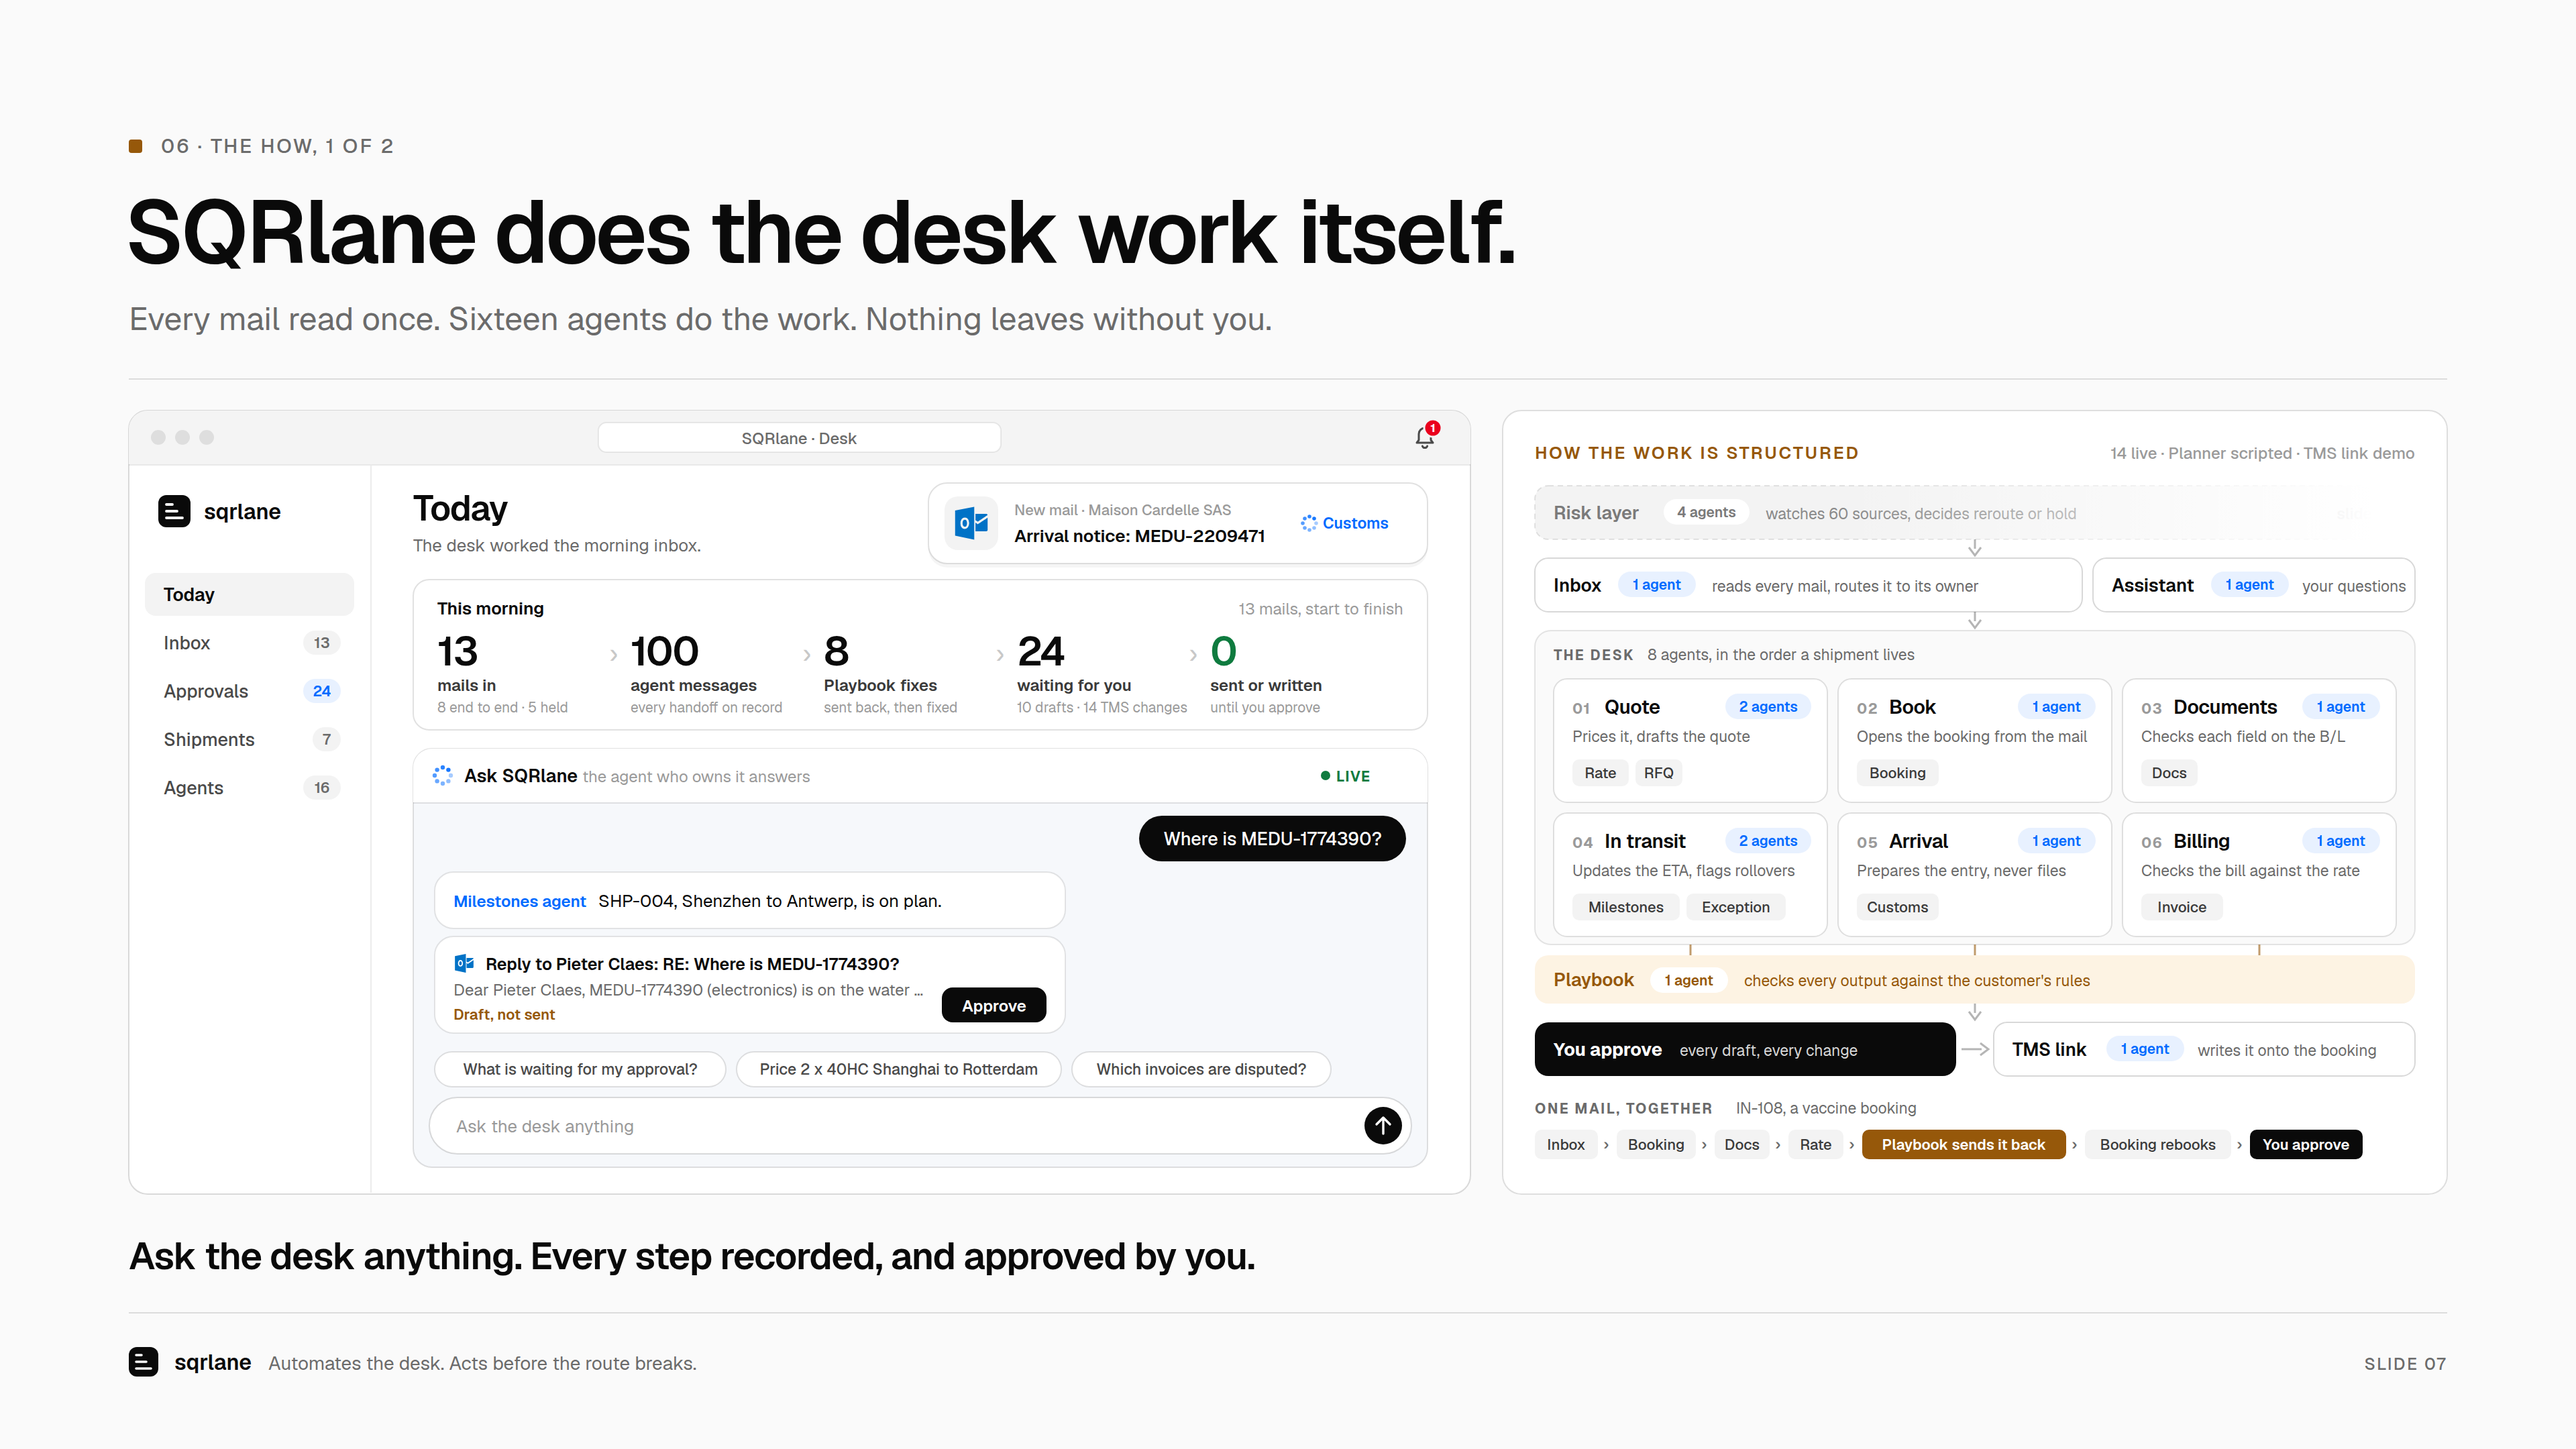
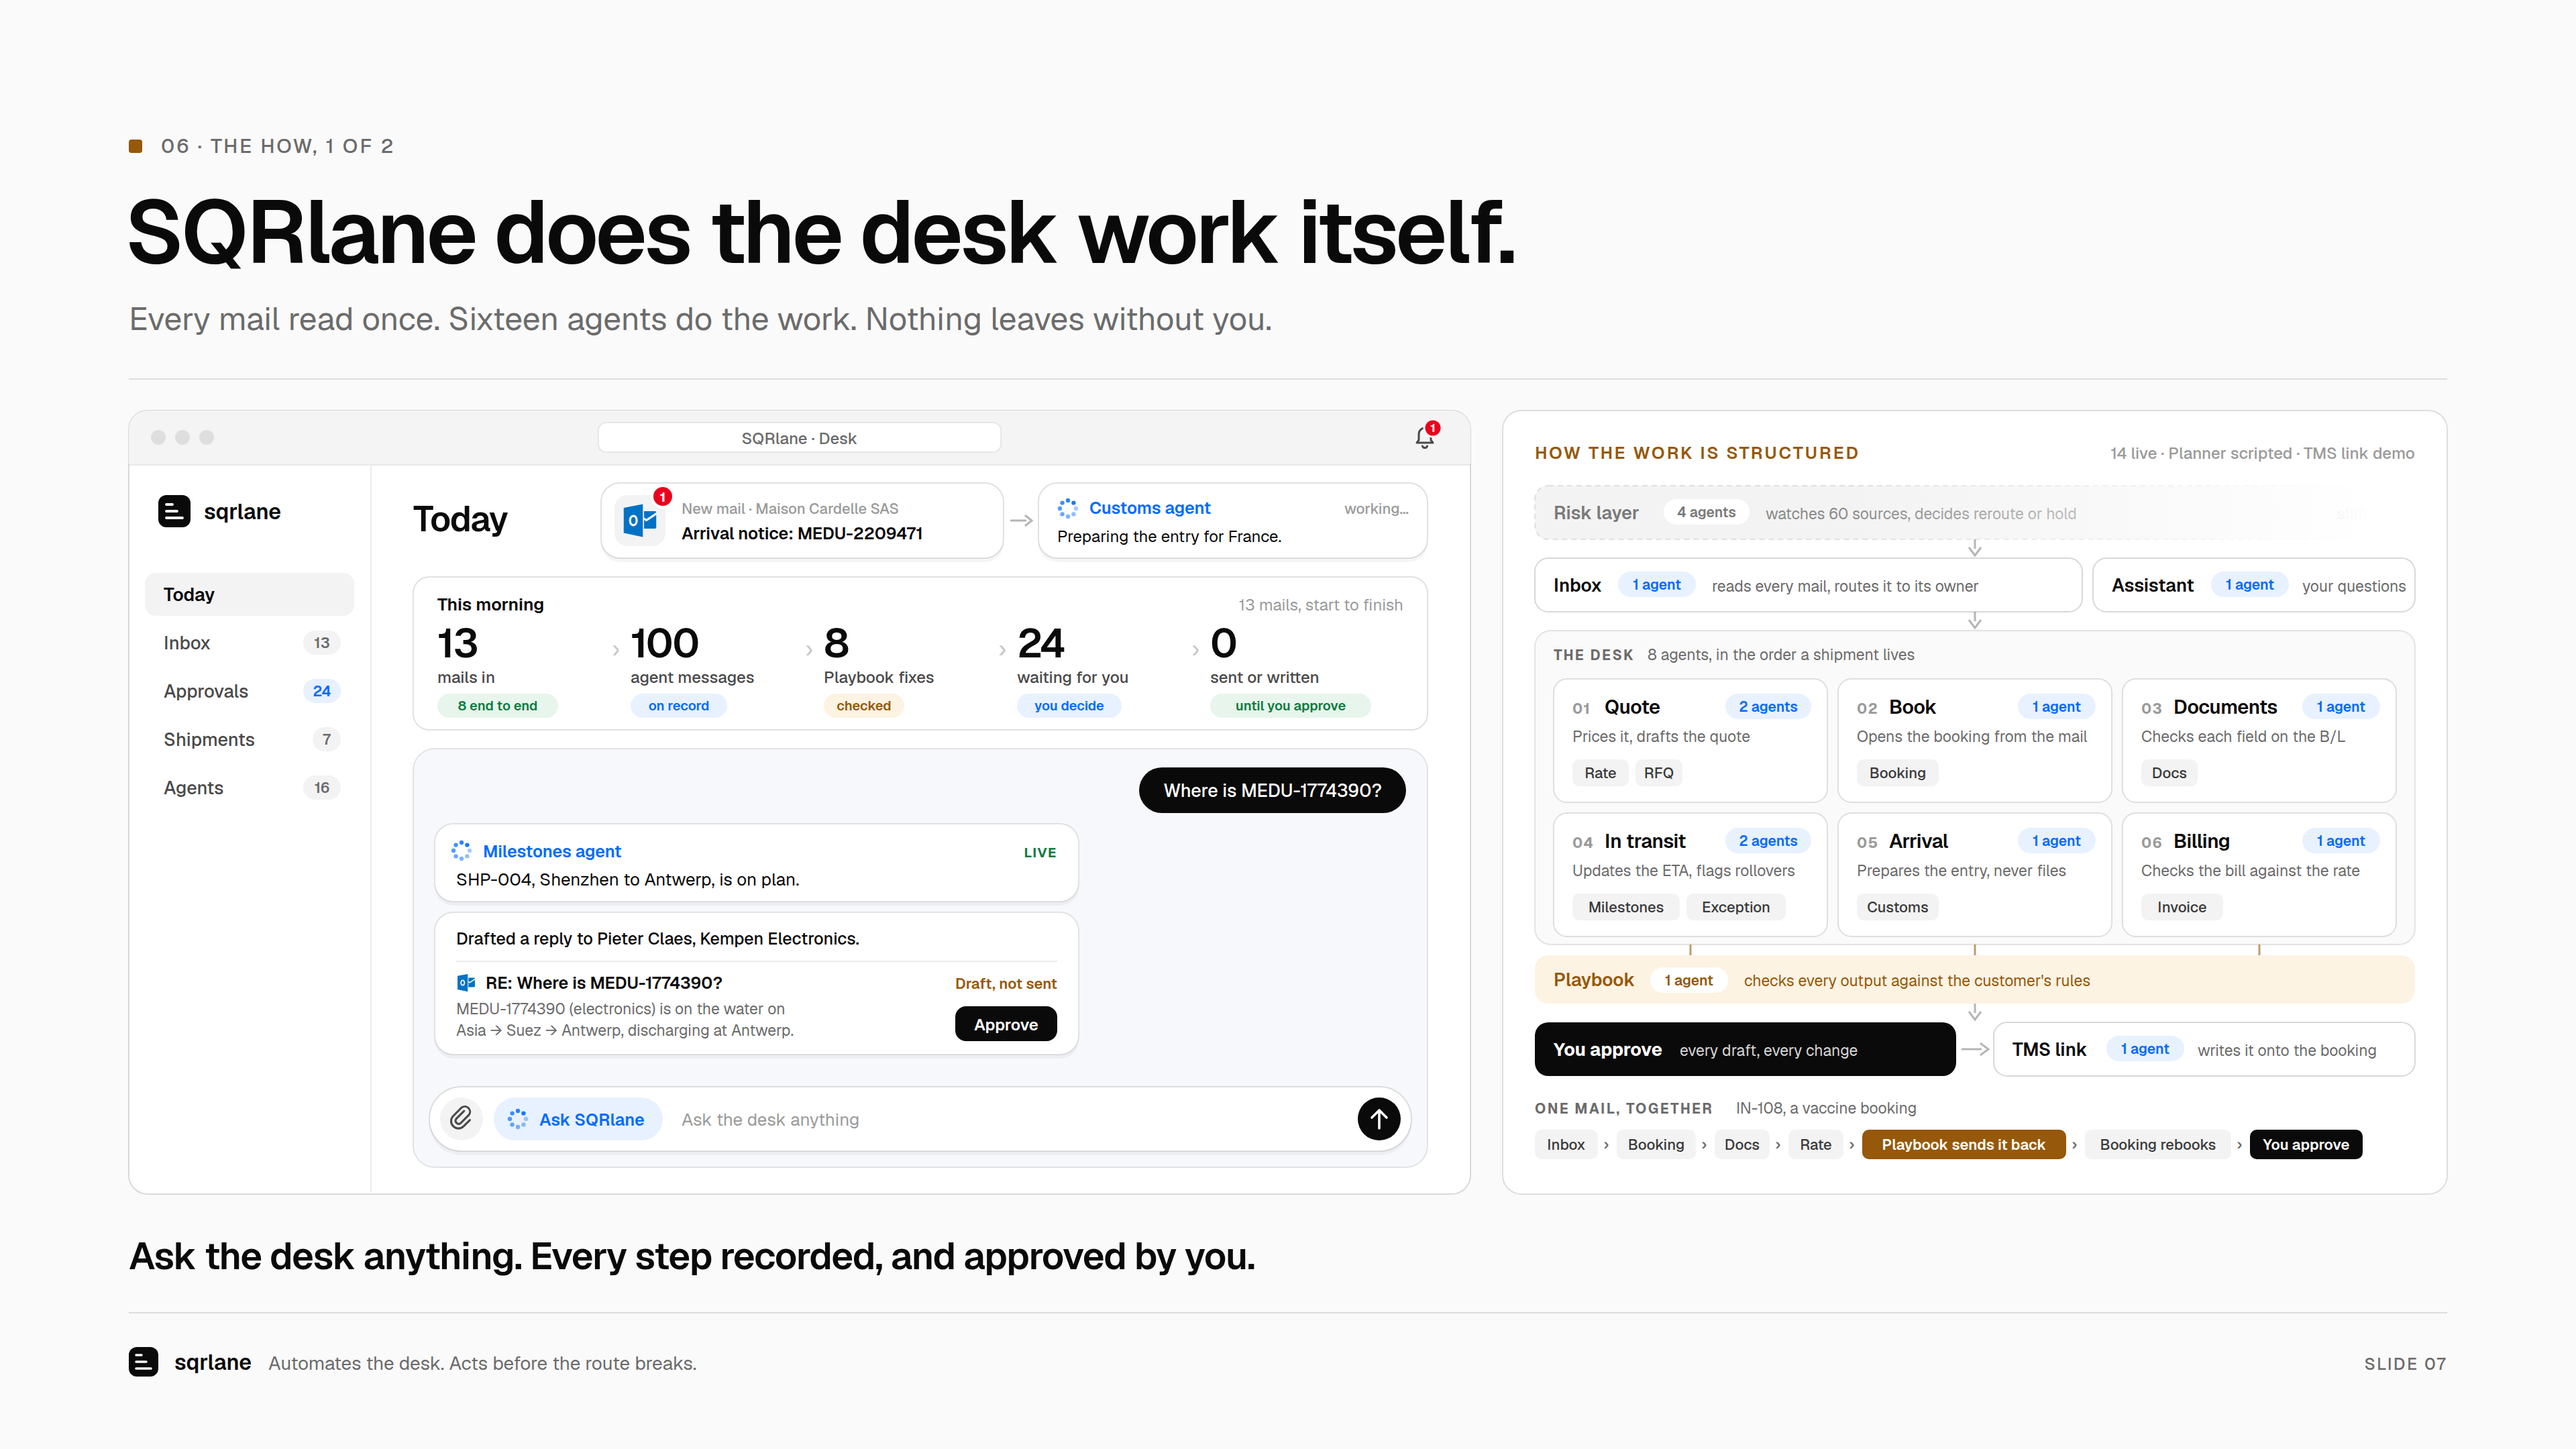
Deck v2 slide 07: tagged overview, chat laid out like the reference, and the Customs agent's working pop-up
Claude-Session: https://claude.ai/code/session_014BsH9ow2RbGmbV9G28PBg8

diff --git a/deck/v2/build_07.py b/deck/v2/build_07.py
@@ -91,86 +91,95 @@ s.T(bx + 6, byy - 3.8, "1", 8.5, 700, CARD, anchor="middle")
 s.end()
 
 s.g("page-header")
-s.T(MX, TOP + 82, "Today", 26, 600, ls=-0.6)
-s.T(MX, TOP + 105, "The desk worked the morning inbox.", 13, 400, MUT)
+s.T(MX, TOP + 90, "Today", 26, 600, ls=-0.6)
 s.end()
 
-# ---- the toast the bell raised: IN-111 lands, the Customs agent already has it
-TW_, TX_ = 372, MX + MW - 372
-s.g("mail-toast")
-soft_card(TX_, TOP + 54, TW_, 60, 14)
-s.R(TX_ + 12, TOP + 64, 40, 40, GREY_BG, 10)
-mark("Outlook", TX_ + 18, TOP + 70, 28)
-s.T(TX_ + 64, TOP + 78, "New mail · Maison Cardelle SAS", 11, 500, GREY)
-s.T(TX_ + 64, TOP + 98, "Arrival notice: MEDU-2209471", 13, 600)
-agent_mark(TX_ + TW_ - 88, TOP + 84, 5)
-s.T(TX_ + TW_ - 78, TOP + 88, "Customs", 11.5, 600, BLUE)
+# ---- two pop-ups from the bell: IN-111 lands, and the Customs agent picks it up
+PT, PH_ = TOP + 54, 56
+P2W = 290; P2X = MX + MW - P2W
+P1W = 300; P1X = P2X - 26 - P1W
+s.g("popup-mail")
+soft_card(P1X, PT, P1W, PH_, 14)
+s.R(P1X + 10, PT + 9, 38, 38, GREY_BG, 10)
+mark("Outlook", P1X + 15, PT + 14, 28)
+s.raw(f'<circle cx="{P1X + 46}" cy="{PT + 10}" r="8" fill="{RED}" stroke="{CARD}" stroke-width="2"/>')
+s.T(P1X + 46, PT + 14, "1", 10, 700, CARD, anchor="middle")
+s.T(P1X + 60, PT + 23, "New mail · Maison Cardelle SAS", 11, 500, GREY)
+s.T(P1X + 60, PT + 42, "Arrival notice: MEDU-2209471", 12.5, 600)
+s.end()
+ax = P1X + P1W + 5
+s.line(ax, PT + PH_ / 2, ax + 12, PT + PH_ / 2, INK, 0.3, 1.5)
+s.raw(f'<path d="M{ax+11} {PT+PH_/2-4} L{ax+16} {PT+PH_/2} L{ax+11} {PT+PH_/2+4}" stroke="{INK}" stroke-opacity="0.3" stroke-width="1.5" fill="none"/>')
+s.g("popup-agent")
+soft_card(P2X, PT, P2W, PH_, 14)
+agent_mark(P2X + 22, PT + 19, 6)
+s.T(P2X + 38, PT + 23, "Customs agent", 12.5, 600, BLUE)
+s.T(P2X + P2W - 14, PT + 23, "working…", 11, 500, GREY, anchor="end")
+s.T(P2X + 14, PT + 44, "Preparing the entry for France.", 12, 400, INK)
 s.end()
 
-# ---- the morning in one line: every figure counted from workflow.run()
-OY, OH = TOP + 126, 112
-STEPS = [("13", "mails in", "8 end to end · 5 held"),
-         ("100", "agent messages", "every handoff on record"),
-         ("8", "Playbook fixes", "sent back, then fixed"),
-         ("24", "waiting for you", "10 drafts · 14 TMS changes"),
-         ("0", "sent or written", "until you approve")]
+# ---- the morning in one line, each figure with its tag (workflow.run() stats)
+OY, OH = TOP + 124, 114
+STEPS = [("13", "mails in", "8 end to end", GREEN_BG, GREEN),
+         ("100", "agent messages", "on record", BLUE_BG, BLUE),
+         ("8", "Playbook fixes", "checked", AMBR_BG, AMBR),
+         ("24", "waiting for you", "you decide", BLUE_BG, BLUE),
+         ("0", "sent or written", "until you approve", GREEN_BG, GREEN)]
 s.g("the-morning")
 s.card(MX, OY, MW, OH, 12)
-s.T(MX + 18, OY + 26, "This morning", 13, 600)
-s.T(MX + MW - 18, OY + 26, "13 mails, start to finish", 12, 400, GREY, anchor="end")
+s.T(MX + 18, OY + 25, "This morning", 13, 600)
+s.T(MX + MW - 18, OY + 25, "13 mails, start to finish", 12, 400, GREY, anchor="end")
 sw_ = (MW - 36) / 5
-for k, (n, lab, sub) in enumerate(STEPS):
+for k, (n, lab, tag, tf, ti) in enumerate(STEPS):
     x = MX + 18 + k * sw_
-    s.T(x, OY + 64, n, 30, 600, GREEN if n == "0" else INK, ls=-1)
-    s.T(x, OY + 83, lab, 12, 600, "#3A3A3A")
-    s.T(x, OY + 99, sub, 10.5, 400, GREY)
+    s.T(x, OY + 60, n, 30, 600, ls=-1)
+    s.T(x, OY + 79, lab, 12, 500, "#4A4A4A")
+    pill(x, OY + 87, tag, tf, ti, anchor="start", size=10, h=18)
     if k < 4:
-        s.T(x + sw_ - 16, OY + 62, "›", 20, 400, "#C8C8C8")
+        s.T(x + sw_ - 14, OY + 60, "›", 18, 400, "#C8C8C8")
 s.end()
 
-# ---- the chat window: its own header, its own tint, bubbles
+# ---- the chat window: you ask, the owning agent answers, its draft waits for you
 CY0 = OY + OH + 14; CHh = BOT - 20 - CY0
 CHAT_BG = "#F6F8FB"
 s.g("chat-window")
-s.R(MX, CY0, MW, CHh, CHAT_BG, 14, f' stroke="{INK}" stroke-opacity="0.12"')
-s.R(MX, CY0, MW, 40, CARD, 14); s.R(MX, CY0 + 26, MW, 14, CARD)
-s.rule(CY0 + 40, 0.10, MX, MW)
-agent_mark(MX + 22, CY0 + 20)
-s.T(MX + 38, CY0 + 25, "Ask SQRlane", 13.5, 600)
-s.T(MX + 126, CY0 + 25, "the agent who owns it answers", 12, 400, GREY)
-s.raw(f'<circle cx="{MX + MW - 76}" cy="{CY0 + 20}" r="3.5" fill="{GREEN}"/>')
-s.T(MX + MW - 68, CY0 + 24.5, "LIVE", 10.5, 700, GREEN, ls=0.8)
-cy = CY0 + 50
+s.R(MX, CY0, MW, CHh, CHAT_BG, 16, f' stroke="{INK}" stroke-opacity="0.10"')
+cy = CY0 + 14
 q = "Where is MEDU-1774390?"
 qw = round(len(q) * 7.6 + 32)
 s.R(MX + MW - 16 - qw, cy, qw, 34, INK, 17)
 s.T(MX + MW - 16 - qw / 2, cy + 22, q, 13.5, 500, CARD, anchor="middle")
 cy += 42
-BWb = 470
-s.R(MX + 16, cy, BWb, 42, CARD, 14, f' stroke="{INK}" stroke-opacity="0.10"')
-s.T(MX + 30, cy + 26, "Milestones agent", 12, 600, BLUE)
-s.T(MX + 138, cy + 26, "SHP-004, Shenzhen to Antwerp, is on plan.", 13, 400, INK)
-cy += 48
-DHh = 72
-s.R(MX + 16, cy, BWb, DHh, CARD, 14, f' stroke="{INK}" stroke-opacity="0.10"')
-mark("Outlook", MX + 30, cy + 12, 16)
-s.T(MX + 54, cy + 25, "Reply to Pieter Claes: RE: Where is MEDU-1774390?", 12.5, 600)
-s.T(MX + 30, cy + 44, "Dear Pieter Claes, MEDU-1774390 (electronics) is on the water …", 12, 400, MUT)
-s.T(MX + 30, cy + 62, "Draft, not sent", 11, 600, AMBR)
-s.R(MX + 16 + BWb - 92, cy + DHh - 34, 78, 26, INK, 8)
-s.T(MX + 16 + BWb - 53, cy + DHh - 16, "Approve", 12, 600, CARD, anchor="middle")
-# the input, with suggestions above it
-IY = CY0 + CHh - 52
-sx = MX + 16
-for sq in ("What is waiting for my approval?", "Price 2 x 40HC Shanghai to Rotterdam", "Which invoices are disputed?"):
-    w = round(len(sq) * 6.1 + 22)
-    s.R(sx, IY - 34, w, 26, CARD, 13, f' stroke="{INK}" stroke-opacity="0.12"')
-    s.T(sx + w / 2, IY - 17, sq, 11.5, 500, "#4A4A4A", anchor="middle")
-    sx += w + 8
-s.R(MX + 12, IY, MW - 24, 42, CARD, 21, f' stroke="{INK}" stroke-opacity="0.14"')
-s.T(MX + 32, IY + 26, "Ask the desk anything", 13, 400, GREY)
-s.raw(f'<circle cx="{MX + MW - 33}" cy="{IY + 21}" r="14" fill="{INK}"/>')
-s.raw(f'<path d="M{MX+MW-33} {IY+27} v-12 M{MX+MW-38} {IY+20} l5 -5 l5 5" stroke="{CARD}" stroke-width="1.7" fill="none" stroke-linecap="round" stroke-linejoin="round"/>')
+BWb = 480
+soft_card(MX + 16, cy, BWb, 58, 14, op=0.10)
+agent_mark(MX + 36, cy + 20)
+s.T(MX + 52, cy + 25, "Milestones agent", 12.5, 600, BLUE)
+s.T(MX + 16 + BWb - 16, cy + 25, "LIVE", 10, 700, GREEN, anchor="end", ls=0.8)
+s.T(MX + 32, cy + 46, "SHP-004, Shenzhen to Antwerp, is on plan.", 13, 400, INK)
+cy += 66
+DHh = 106
+soft_card(MX + 16, cy, BWb, DHh, 14, op=0.10)
+s.T(MX + 32, cy + 24, "Drafted a reply to Pieter Claes, Kempen Electronics.", 12.5, 500, INK)
+s.rule(cy + 36, 0.08, MX + 32, BWb - 32)
+mark("Outlook", MX + 32, cy + 45, 15)
+s.T(MX + 54, cy + 57, "RE: Where is MEDU-1774390?", 12.5, 600)
+s.T(MX + 32, cy + 76, "MEDU-1774390 (electronics) is on the water on", 11.5, 400, MUT)
+s.T(MX + 32, cy + 92, "Asia → Suez → Antwerp, discharging at Antwerp.", 11.5, 400, MUT)
+s.T(MX + 16 + BWb - 16, cy + 57, "Draft, not sent", 11, 600, AMBR, anchor="end")
+s.R(MX + 16 + BWb - 92, cy + DHh - 36, 76, 26, INK, 8)
+s.T(MX + 16 + BWb - 54, cy + DHh - 18, "Approve", 12, 600, CARD, anchor="middle")
+# the input
+IY = CY0 + CHh - 60
+soft_card(MX + 12, IY, MW - 24, 48, 24, op=0.12)
+s.R(MX + 20, IY + 8, 32, 32, GREY_BG, 16)
+s.raw(f'<path d="M{MX+41} {IY+19} l-7.5 7.5 a3 3 0 0 0 4.2 4.2 l8 -8 a5 5 0 0 0 -7 -7 l-8 8 a7 7 0 0 0 9.9 9.9 l6 -6" '
+      f'transform="translate(-2 -2) scale(0.78) translate({(MX+36)*0.282:.1f} {(IY+24)*0.282:.1f})" stroke="#4A4A4A" stroke-width="2" fill="none" stroke-linecap="round"/>')
+s.R(MX + 60, IY + 8, 126, 32, BLUE_BG, 16)
+agent_mark(MX + 78, IY + 24)
+s.T(MX + 94, IY + 29, "Ask SQRlane", 12.5, 600, BLUE)
+s.T(MX + 200, IY + 29, "Ask the desk anything", 13, 400, GREY)
+s.raw(f'<circle cx="{MX + MW - 36}" cy="{IY + 24}" r="16" fill="{INK}"/>')
+s.raw(f'<path d="M{MX+MW-36} {IY+31} v-13 M{MX+MW-41.5} {IY+23} l5.5 -5.5 l5.5 5.5" stroke="{CARD}" stroke-width="1.8" fill="none" stroke-linecap="round" stroke-linejoin="round"/>')
 s.end()
 s.end()
 

diff --git a/deck/v2/HANDOFF.md b/deck/v2/HANDOFF.md
@@ -35,17 +35,18 @@ in git at `d4af2cc:deck/v2/slide-06-the-job-2-b.svg` if the owner asks again.
 
 ## Slide 07, current version (fourth rebuild, 2026-09-30)
 
-- **Left, the Today view (fifth pass):** sidebar with counts (Inbox 13, Approvals 24 in
-  blue, Shipments 7, Agents 16); a **bell with a red badge** at the top right of the app
-  bar, and the toast it raised: Outlook mark, "New mail · Maison Cardelle SAS / Arrival
-  notice: MEDU-2209471", picked up by Customs (IN-111). The stat cards were replaced by
-  **"This morning"**, one line through the run: 13 mails in (8 end to end, 5 held) › 100
-  agent messages › 8 Playbook fixes › 24 waiting for you (10 drafts, 14 TMS changes) ›
-  0 sent or written, all from `workflow.run(use_llm=False)` stats. Under it, a
-  **separate chat window** (own header "Ask SQRlane", LIVE, tinted body): the question,
-  the Milestones agent's answer, its real drafted reply to IN-106 ("Draft, not sent",
-  Approve), three suggested questions and the input. The chat and the mail feed are no
-  longer side by side, on the owner's instruction.
+- **Left, the Today view (sixth pass):** sidebar with counts; a bell with a red badge in
+  the app bar; beside the "Today" title, **two pop-ups** joined by an arrow: the Outlook
+  mail (IN-111, Maison Cardelle, arrival notice MEDU-2209471) and "Customs agent ·
+  working… Preparing the entry for France." (its finished output is "Entry prepared for
+  France. Not filed."). **"This morning"** in one line with a coloured tag under each
+  figure: 13 mails in (8 end to end, green) › 100 agent messages (on record, blue) › 8
+  Playbook fixes (checked, amber) › 24 waiting for you (you decide, blue) › 0 sent or
+  written (until you approve, green). Then the **chat window** laid out like the owner's
+  reference: tinted body, the question bubble, a Milestones agent card (LIVE), the draft
+  card "Drafted a reply to Pieter Claes, Kempen Electronics." with the real IN-106 reply,
+  "Draft, not sent" and Approve, and the input with the paperclip and "Ask SQRlane".
+  Suggested questions were dropped for room.
 - **Risk layer band** fades out to the right (a white gradient over its right half), on
   the owner's instruction.
 - **The "Demo run · synthetic inbox" label was removed on the owner's instruction.** The
